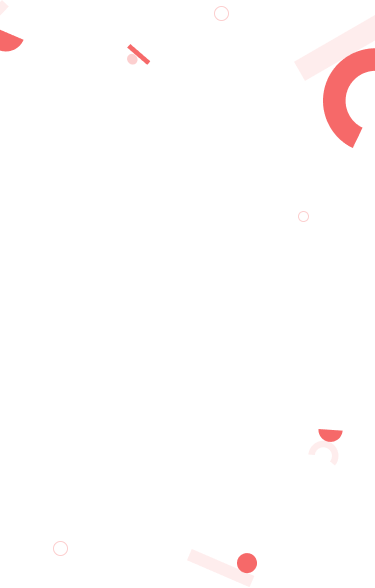
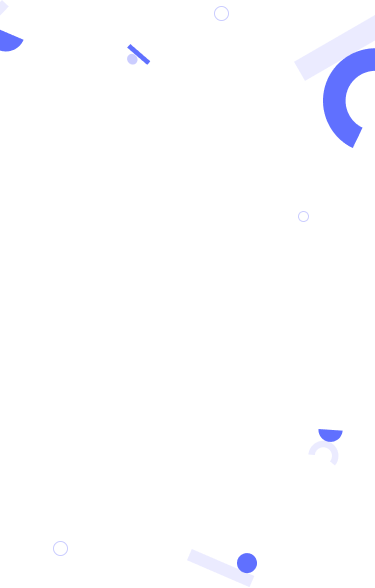
modify colors

diff --git a/index.html b/index.html
@@ -4,26 +4,26 @@
     <meta charset="UTF-8">
     <meta http-equiv="X-UA-Compatible" content="IE=edge">
     <meta name="viewport" content="width=device-width, initial-scale=1.0">
-    <title>My Portfolio - Zeinab Iqal</title>
+    <title>My Portfolio - Zeinab iqal</title>
     <link rel="stylesheet" href="style.css">
     <link rel="preconnect" href="https://fonts.googleapis.com">
     <link rel="preconnect" href="https://fonts.gstatic.com" crossorigin>
     <link href="https://fonts.googleapis.com/css2?family=Poppins:wght@400;500;600;700&display=swap" rel="stylesheet">
 </head>
 <body>
-  <div class="container">
+  <div class="background">
   <div class="page-flex">
 
   <header>
     <nav class="navbar">
-      <div><a class="github-account" href="https://github.com/zeinabiqal">zeinab <span>iqal</span></a></div>
+      <div><a class="github-account" href="https://github.com/zeinabiqal">ZEINAB IQAL</a></div>
       <div class="nav-icon"><img src="./Images/Union.png" alt="header icon"></div>
     </nav>
   </header>
 
   <section>
     <div>
-      <div><h1 class="header">I'm zeinab <br>Glad to see you!</h1></div> 
+      <div><h1 class="header">I'm Zeinab iqal Glad to see you!</h1></div> 
       <div>
       <p class="introduction">I'm a software developer! I can help you build a product , feature or website Look through some of my work and experience! If you like what you see and have a project you need coded, don't hestiate to contact me.</p> </div>
     </div>
@@ -31,23 +31,23 @@
     <div class="contact">
       <p>LET'S CONNECT</p>
       <div class="contact-icons">
-     <ul class="icons-list">    
-      <li>
-        <a href="https://twitter.com/zeinab_iqal"><img src="Images/Vector1.png" alt="twitter icon"> </a>
-      </li>
-      <li>
-       <a href="https://www.linkedin.com/in/zeinab-iqal-27993059"> <img src="Images/Vector2.png" alt="linkedin icon"></a>
-      </li>
-      <li>
-        <a href="mailto:zeinabiqal@gmail.com"><img src="Images/Vector3.png" alt="M icon"></a>
-      </li>
-      <li>
-        <a href="https://github.com/ZeinabIqal"><img src="Images/Vector4.png" alt="github"></a>
-      </li>
-      <li>
-        <a href="#"><img src="Images/Vector5.png" alt="hand icon"></a>
-      </li> 
-    </ul>    
+        <ul class="icons-list">    
+          <li>
+            <a href="https://twitter.com/zeinab_iqal"><img src="Images/Vector1.png" alt="twitter icon"> </a>
+          </li>
+          <li>
+           <a href="https://www.linkedin.com/in/zeinab-iqal-27993059"> <img src="Images/Vector2.png" alt="linkedin icon"></a>
+          </li>
+          <li>
+            <a href="mailto:zeinabiqal@gmail.com"><img src="Images/Vector3.png" alt="M icon"></a>
+          </li>
+          <li>
+            <a href="https://github.com/ZeinabIqal"><img src="Images/Vector4.png" alt="github"></a>
+          </li>
+          <li>
+            <a href="#"><img src="Images/Vector5.png" alt="hand icon"></a>
+          </li> 
+        </ul>        
     </div>
     
     </div>

diff --git a/style.css b/style.css
@@ -1,10 +1,9 @@
 body {
   padding: 0;
   margin: 0;
-  box-sizing: border-box;
 }
 
-.container {
+.background {
   background-image: url(./Images/background.png);
   background-repeat: no-repeat;
   position: absolute;
@@ -29,17 +28,12 @@ body {
 .github-account {
   font-family: 'poppins', sans-serif;
   font-weight: 700;
-  font-size: 20px;
+  font-size: 18px;
   text-decoration: none;
-  color: #f66969;
-  width: 140px;
+  color: #6070ff;
+  width: fit-content;
   display: inline-block;
   margin-left: 12px;
-  text-transform: uppercase;
-}
-
-.github-account span {
-  color: #344563;
 }
 
 .nav-icon {
@@ -50,15 +44,14 @@ body {
 
 .header {
   width: 327px;
-  line-height: 65px;
+  line-height: 75px;
   margin-top: 45px;
   margin-left: 24px;
   margin-bottom: 0;
   font-family: 'poppins', sans-serif;
   font-weight: 700, bold;
   font-size: 40px;
-  color: #e56464;
-  text-transform: capitalize;
+  color: #172b4d;
 }
 
 .introduction {
@@ -80,7 +73,7 @@ body {
   font-style: 'poppins', sans-serif;
   font-weight: 500;
   font-size: 16px;
-  color: #f66969;
+  color: #7f8cff;
   margin-left: 24px;
   margin-bottom: 0;
 }
@@ -101,5 +94,5 @@ ul li {
 
 .icons-list {
   display: flex;
-  gap: 20px;
+  gap: 15px;
 }
